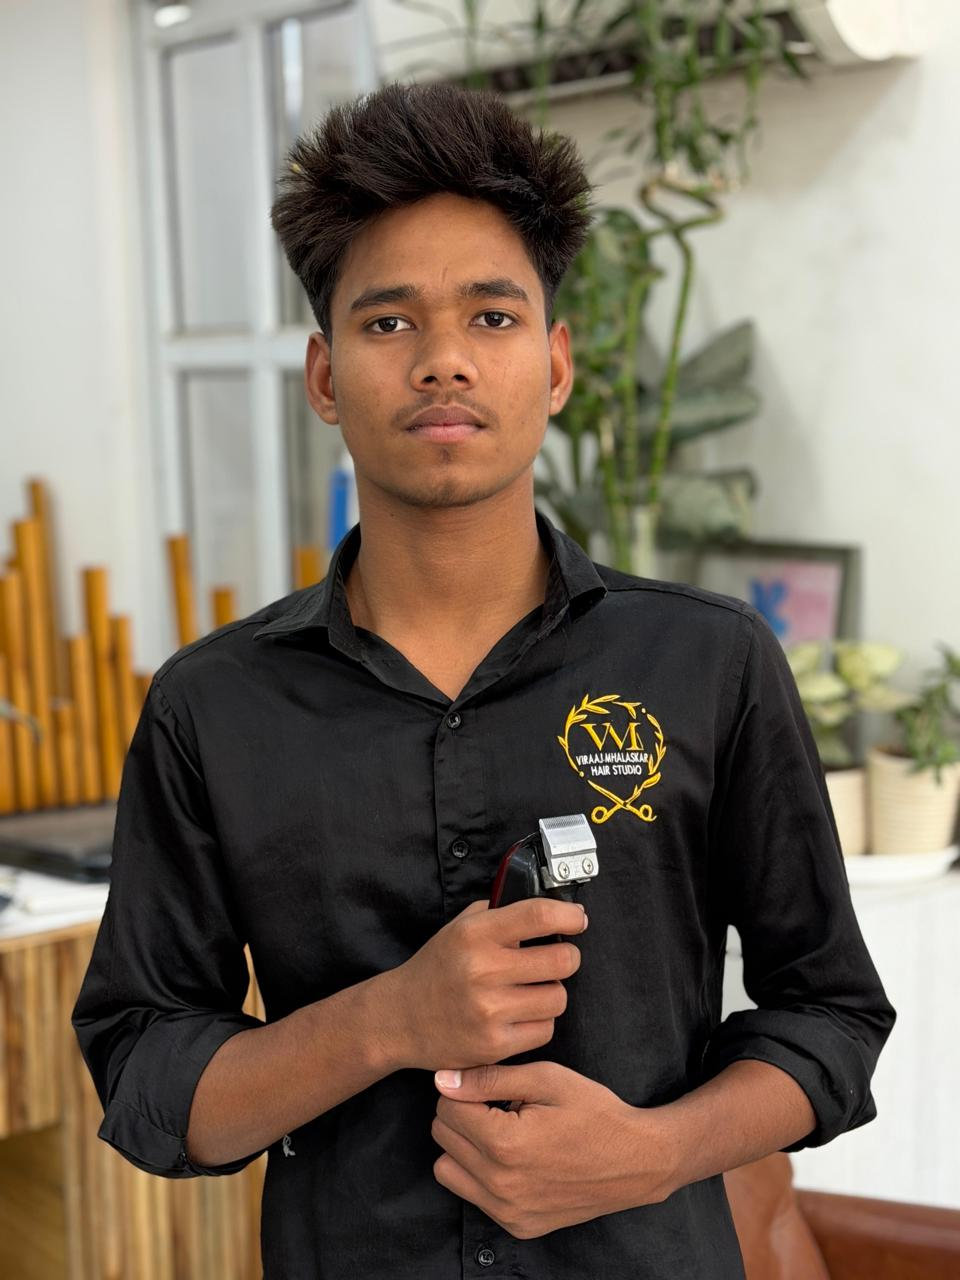
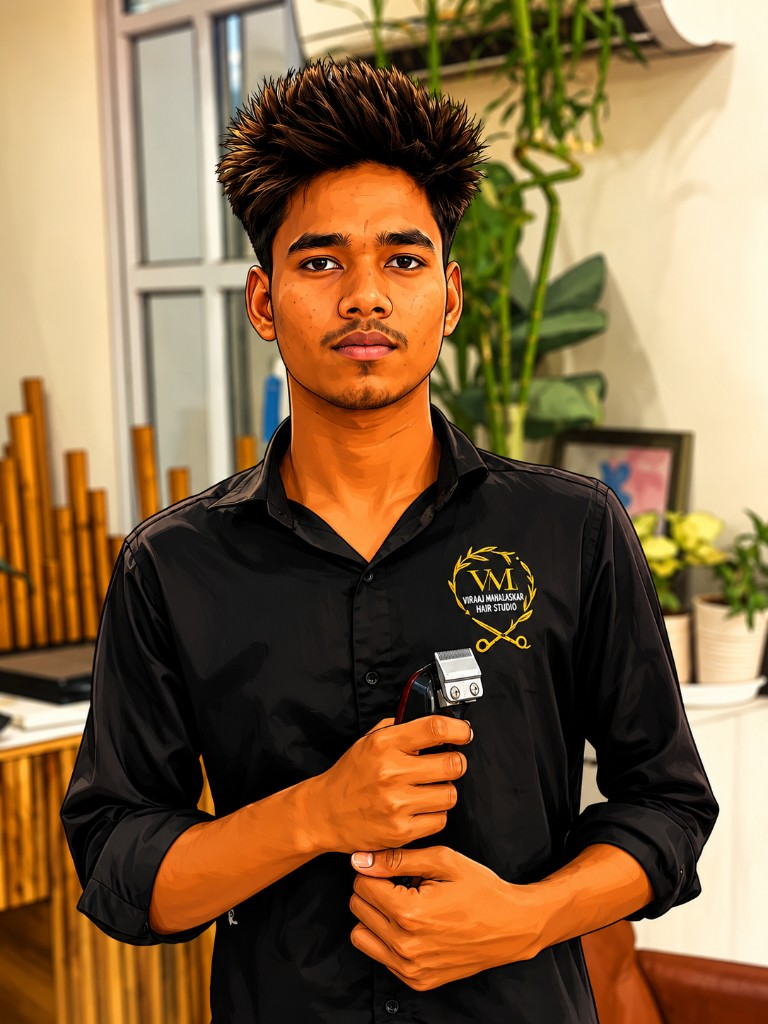
Update expert team photos and order: Anmol, Ashu, Sunil.
Replace team member images with new studio portraits and refresh local storage defaults so updated photos show on the live site.

diff --git a/app/manage-team/page.tsx b/app/manage-team/page.tsx
@@ -13,40 +13,32 @@ interface TeamMember {
   image: string | null
 }
 
-const TEAM_STORAGE_KEY = 'viraaj_team_members'
+const TEAM_STORAGE_KEY = 'viraaj_team_members_v2'
 
 const DEFAULT_TEAM: TeamMember[] = [
   {
     id: '1',
-    name: 'Sophie Laurent',
-    designation: 'Senior Stylist',
-    specialty: 'Color & Styling Specialist',
-    bio: 'Award-winning colorist with 12+ years of experience in advanced techniques and creative color design.',
-    image: null,
+    name: 'Anmol',
+    designation: 'Mens Hairdresser',
+    specialty: 'Hair Cutting & Styling',
+    bio: "Passionate about creating fresh, trendy hairstyles. Specializes in precision cuts and modern men's styling techniques.",
+    image: '/images/team/anmol.png',
   },
   {
     id: '2',
-    name: 'Marcus Chen',
-    designation: 'Creative Director',
-    specialty: 'Master Stylist & Mentor',
-    bio: 'Founder & creative director. Specializes in precision cuts and transformative style consultations.',
-    image: null,
+    name: 'Ashu',
+    designation: 'Manager',
+    specialty: 'Mens Hairdresser & Beautician',
+    bio: "Skilled in men's haircuts, styling, and grooming. Dedicated to delivering sharp, modern looks with attention to detail.",
+    image: '/images/team/ashu.png',
   },
   {
     id: '3',
-    name: 'Elena Rodriguez',
-    designation: 'Bridal Specialist',
-    specialty: 'Bridal & Event Specialist',
-    bio: 'Expert in creating stunning bridal looks and special occasion styling for unforgettable moments.',
-    image: null,
-  },
-  {
-    id: '4',
-    name: 'James Mitchell',
-    designation: 'Grooming Expert',
-    specialty: "Men's Grooming Expert",
-    bio: "Certified in men's barbering and grooming with a passion for classic and modern styles.",
-    image: null,
+    name: 'Sunil',
+    designation: 'Unisex Hairdresser',
+    specialty: 'All Hair Types & Styles',
+    bio: "Versatile stylist skilled in both men's and women's haircuts. Creates personalized looks for every client.",
+    image: '/images/team/sunil.png',
   },
 ]
 

diff --git a/components/team.tsx b/components/team.tsx
@@ -14,7 +14,7 @@ interface TeamMember {
   isOwner?: boolean
 }
 
-const TEAM_STORAGE_KEY = 'viraaj_team_members'
+const TEAM_STORAGE_KEY = 'viraaj_team_members_v2'
 
 const OWNER: TeamMember = {
   id: 'owner',
@@ -29,25 +29,25 @@ const OWNER: TeamMember = {
 const DEFAULT_TEAM: TeamMember[] = [
   {
     id: '1',
-    name: 'Ashu',
-    designation: 'Manager',
-    specialty: "Mens Hairdresser & Beautician",
-    bio: "Skilled in men's haircuts, styling, and grooming. Dedicated to delivering sharp, modern looks with attention to detail.",
-    image: '/images/team/manager.jpeg',
+    name: 'Anmol',
+    designation: 'Mens Hairdresser',
+    specialty: 'Hair Cutting & Styling',
+    bio: "Passionate about creating fresh, trendy hairstyles. Specializes in precision cuts and modern men's styling techniques.",
+    image: '/images/team/anmol.png',
   },
   {
     id: '2',
-    name: 'Anmol',
-    designation: 'Mens Hairdresser',
-    specialty: "Hair Cutting & Styling",
-    bio: "Passionate about creating fresh, trendy hairstyles. Specializes in precision cuts and modern men's styling techniques.",
-    image: '/images/team/anmol.png',
+    name: 'Ashu',
+    designation: 'Manager',
+    specialty: 'Mens Hairdresser & Beautician',
+    bio: "Skilled in men's haircuts, styling, and grooming. Dedicated to delivering sharp, modern looks with attention to detail.",
+    image: '/images/team/ashu.png',
   },
   {
     id: '3',
     name: 'Sunil',
     designation: 'Unisex Hairdresser',
-    specialty: "All Hair Types & Styles",
+    specialty: 'All Hair Types & Styles',
     bio: "Versatile stylist skilled in both men's and women's haircuts. Creates personalized looks for every client.",
     image: '/images/team/sunil.png',
   },
